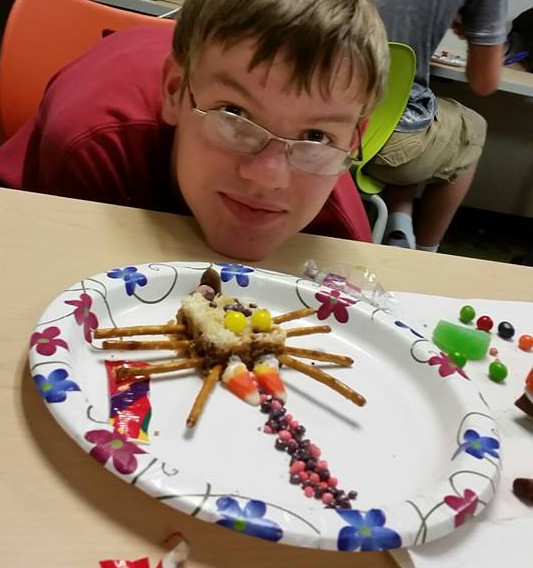
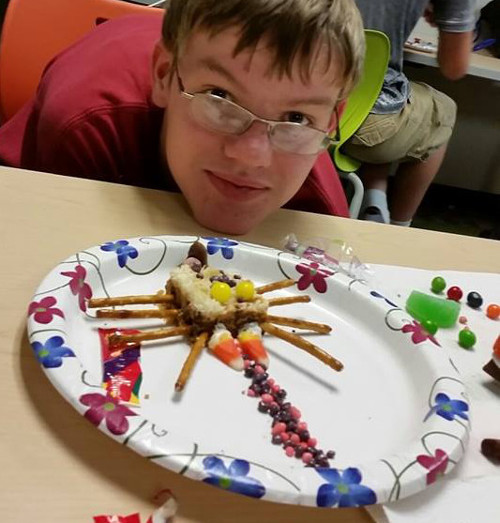
image resizing on page

diff --git a/src/html/materialize/lifeAtWIT.html b/src/html/materialize/lifeAtWIT.html
@@ -89,6 +89,8 @@
                         &bullet; Chick-fil-A
                         &bullet; Mimi's Cafe
                         &bullet; IHOP
+                        &bullet; Chipotle
+                        &bullet; Starbucks
                         &bullet; Costco
                       </h5>
                     </div>
@@ -601,8 +603,8 @@
             <div class="parallax"><img src="images/seaPerch-paralax.jpg" alt="A WIT Student Community of Practice" style="opacity: 1;"></div>
             <div class="section">
                 <div class="row container">
-                    <h1 class="valign header center indigo-text wit-section-title">SCOPS</h1>
-                    <h4 class="valign header center indigo-text wit-section-title">Student-driven intra-curricular activities</h4>
+                    <h1 class="valign header center blue-text darken-2 wit-section-title">SCOPS</h1>
+                    <h4 class="valign header center blue-text darken-2 wit-section-title">Student-driven intra-curricular activities</h4>
                     <p class="center"><a href="scops.html" class="waves-effect waves-light btn">Learn more</a></p>
                 </div>
               </div>
